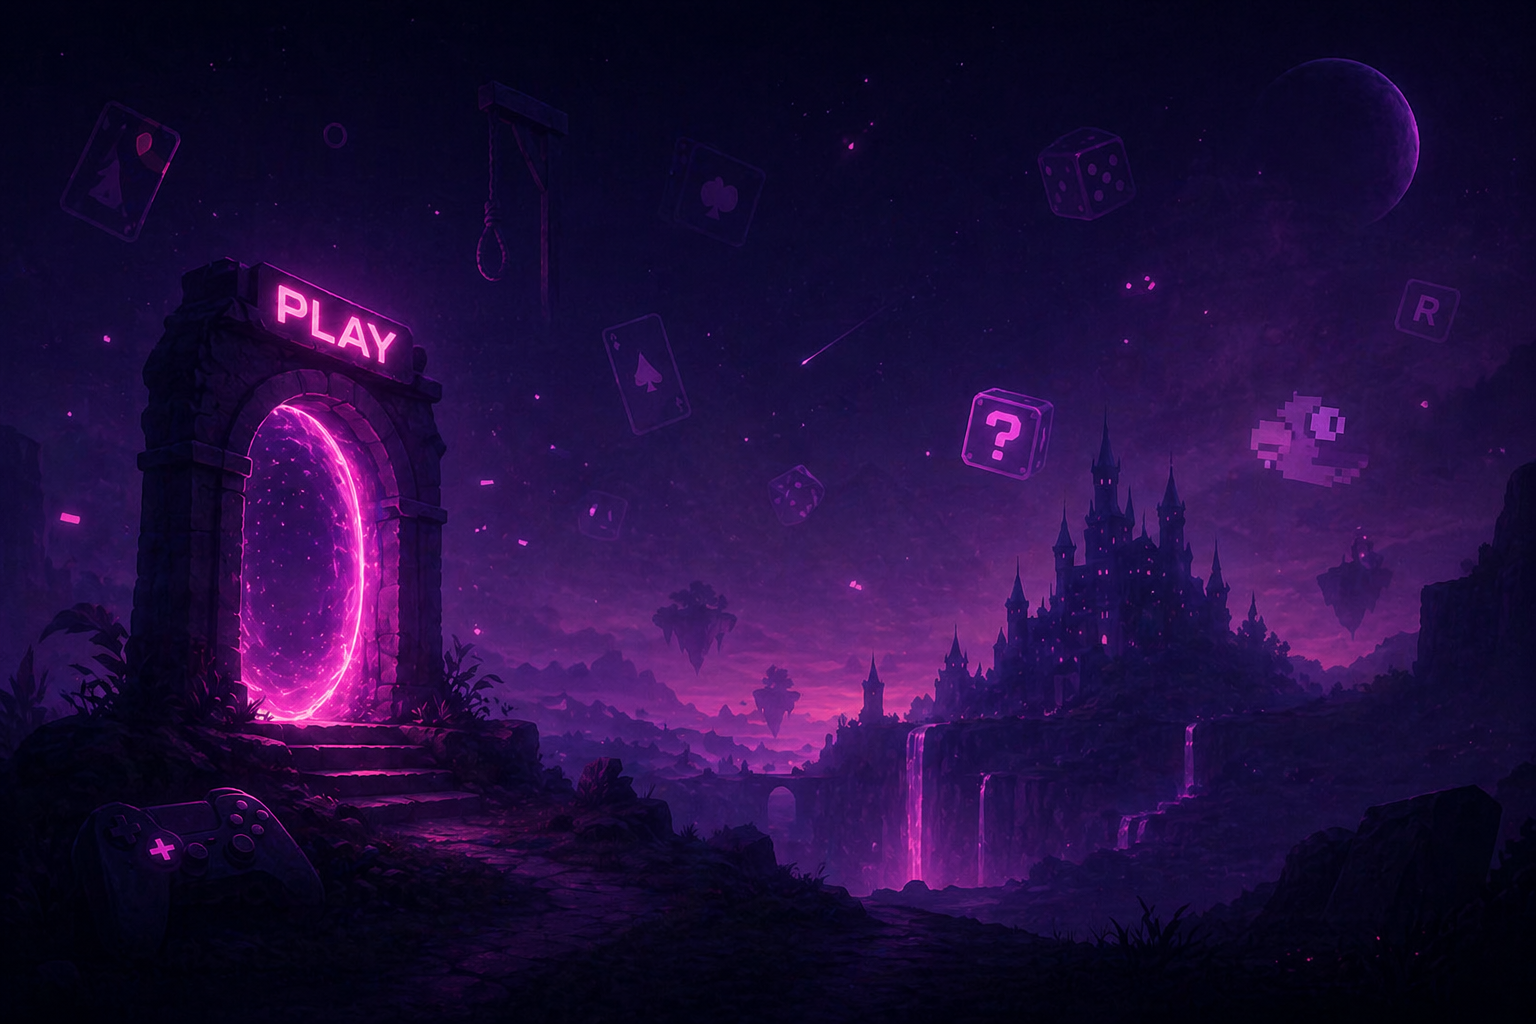
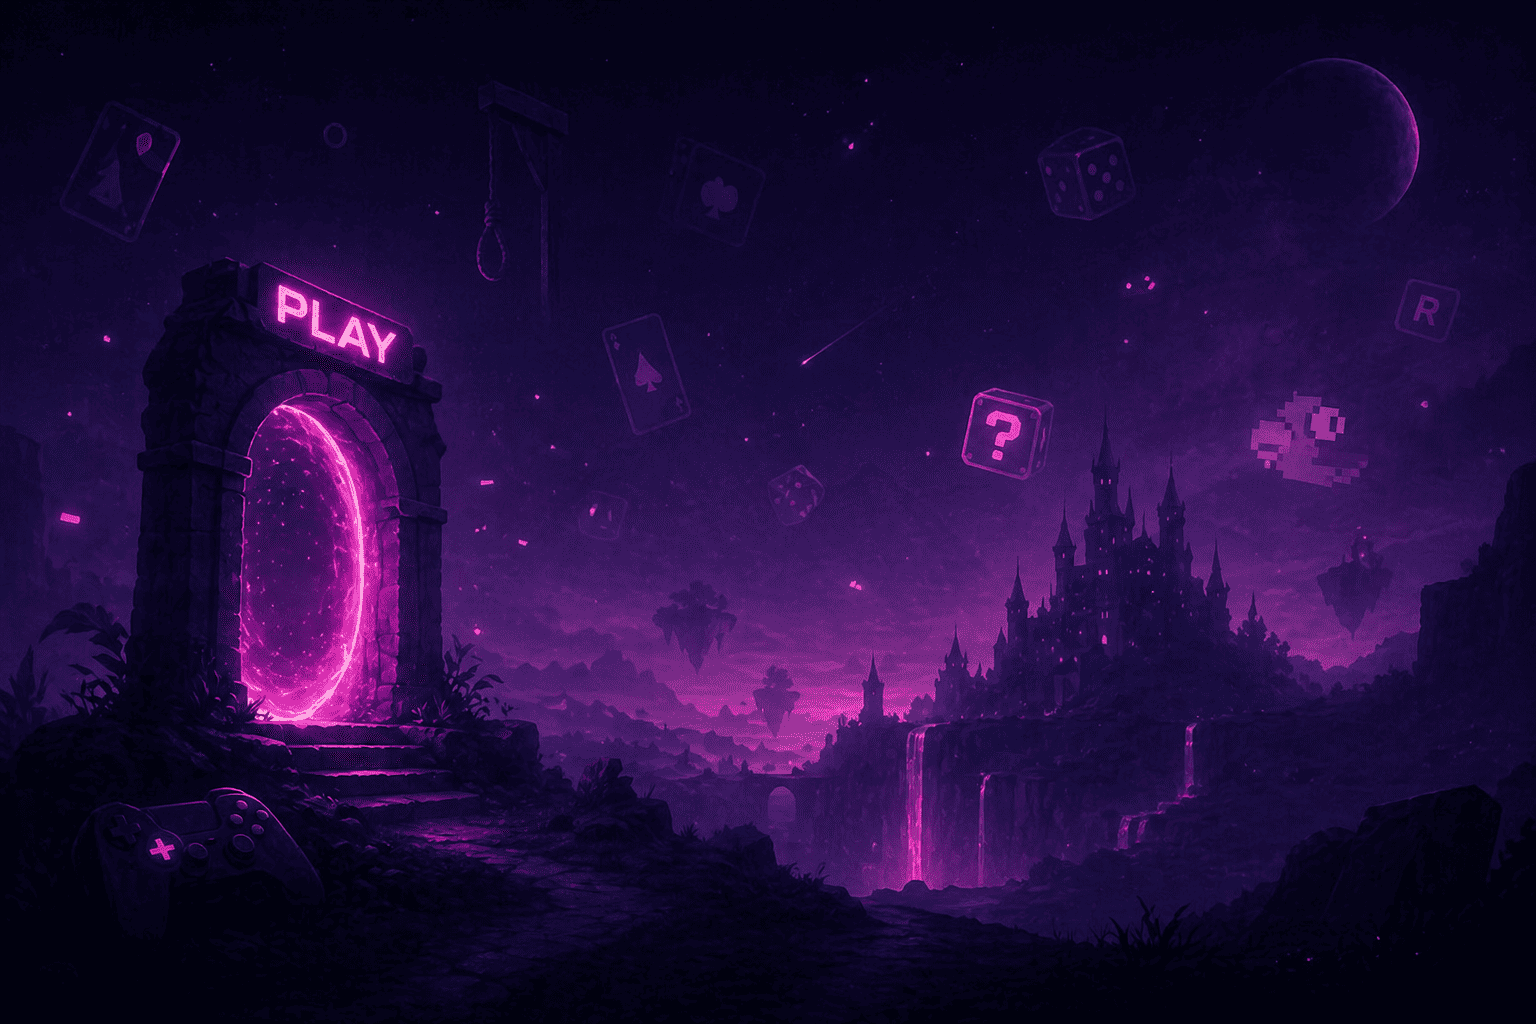
update trivia

diff --git a/src/app/services/trivia.service.ts b/src/app/services/trivia.service.ts
@@ -8,8 +8,7 @@ import { ISimpsonsCharacter, Question, QuestionType } from './service.interface'
 export class TriviaService {
 
     simpsonsS= inject(Simpsons);
-    currentQuestion =
-    signal<Question | null>(null);
+    currentQuestion = signal<Question | null>(null);
 
     types: QuestionType[] = [
     'quoteToCharacter',
@@ -56,36 +55,73 @@ export class TriviaService {
     this.currentQuestion.set(question);
     }
 
-    getRandomCharacter(): ISimpsonsCharacter {
+    // getRandomCharacter(hasPhrase?: boolean): ISimpsonsCharacter {
 
+    //     const characters = this.simpsonsS.characters();
+
+    //     return characters[
+    //         Math.floor(Math.random() * characters.length)
+    //     ];
+    // }
+
+    // getRandomCharacter(hasPhrase?: boolean): ISimpsonsCharacter {
+    //     const characters = this.simpsonsS.characters();
+
+    //     const filtered = characters.filter(character => {
+    //         if (hasPhrase === undefined) return true;
+
+    //         if (hasPhrase) {
+    //         return character.phrases?.length > 0;
+    //         } else {
+    //         return !character.phrases || character.phrases.length === 0;
+    //         }
+    //     });
+
+    //     return filtered[
+    //         Math.floor(Math.random() * filtered.length)
+    //     ];
+    // }
+
+    getRandomCharacter(hasPhrase?: boolean): ISimpsonsCharacter {
         const characters = this.simpsonsS.characters();
 
-        return characters[
-            Math.floor(Math.random() * characters.length)
+        const filtered = characters.filter(character => {
+            if (!hasPhrase) return true;
+
+            return (character.phrases?.length ?? 0) > 0;
+        });
+
+        return filtered[
+            Math.floor(Math.random() * filtered.length)
         ];
     }
 
-    getRandomCharacterNames(  cant: number, excludeName?: string): string[] {
-        
+    getRandomCharacterNames(cant: number, excludeName?: string, hasPhrase?: boolean): string[] {
+
         const characters = this.simpsonsS.characters();
+
+        const filtered = characters.filter(character => {
+            if (hasPhrase === undefined) return true;
+
+            return hasPhrase
+            ? (character.phrases?.length ?? 0) > 0
+            : true;
+        });
+
         const names: string[] = [];
 
-        while(names.length < cant) {
+        while (names.length < cant && filtered.length > 0) {
 
             const randomCharacter =
-            characters[Math.floor(Math.random() * characters.length)];
+            filtered[Math.floor(Math.random() * filtered.length)];
 
-            const randomName =
-            randomCharacter.name;
+            const randomName = randomCharacter.name;
 
-            const alreadyExists =
-            names.includes(randomName);
+            const alreadyExists = names.includes(randomName);
+            const isExcluded = randomName === excludeName;
 
-            const isExcluded =
-            randomName === excludeName;
-
-            if(!alreadyExists && !isExcluded) {
-                names.push(randomName);
+            if (!alreadyExists && !isExcluded) {
+            names.push(randomName);
             }
         }
 
@@ -122,10 +158,9 @@ export class TriviaService {
 
     generateQuoteToCharacterQuestion(): Question {
 
-        const correctCharacter = this.getRandomCharacter();
+        const correctCharacter = this.getRandomCharacter(true);
 
-        const wrongOptions =
-            this.getRandomCharacterNames(3, correctCharacter.name);
+        const wrongOptions = this.getRandomCharacterNames(3, correctCharacter.name, true);
 
         const options = [
             correctCharacter.name,
@@ -136,29 +171,13 @@ export class TriviaService {
 
             type: 'quoteToCharacter',
 
-            prompt: `Quién dijo esta frase:"${this.getRandomItem(correctCharacter.phrases)}"?`,
+            prompt: `Quién dijo esta frase:"${this.shuffle(correctCharacter.phrases)[0]}"` ,
 
             options: this.shuffle(options),
 
             correctAnswer:
             correctCharacter.name
         };
-    }
-
-    getRandomItem(array: string[]): string {
-
-        const validItems =
-            array.filter(item =>
-            item &&
-            item.trim() !== ''
-            );
-
-        return validItems[
-            Math.floor(
-            Math.random() * validItems.length
-            )
-        ];
-
     }
 
     getRandomPhrases(cant: number, excludeName?: string) {
@@ -170,11 +189,11 @@ export class TriviaService {
 
             const randomCharacter = characters[Math.floor(Math.random() * characters.length)];
 
-            const randomPhrase = this.getRandomItem(randomCharacter.phrases);
+            const randomPhrase =  this.shuffle(randomCharacter.phrases)[0];
 
             const isExcluded = randomCharacter.name === excludeName;
 
-            if(!isExcluded) {
+            if(!isExcluded && randomPhrase) {
                 phrases.push(randomPhrase);
             }
         }
@@ -186,9 +205,9 @@ export class TriviaService {
 
     generateCharacterToQuoteQuestion(): Question {
 
-        const correctCharacter = this.getRandomCharacter();
+        const correctCharacter = this.getRandomCharacter(true);
 
-        const correctOption = this.getRandomItem(correctCharacter.phrases);
+        const correctOption = this.shuffle(correctCharacter.phrases)[0];
 
         const wrongOptions = this.getRandomPhrases(3, correctCharacter.name);
 
@@ -213,7 +232,7 @@ export class TriviaService {
 
         const correctCharacter = this.getRandomCharacter();
 
-        const wrongOptions = this.getRandomCharacterNames(3);
+        const wrongOptions = this.getRandomCharacterNames(3, correctCharacter.name);
 
         const options = [
             correctCharacter.name,

diff --git a/src/app/games/trivia/trivia.css b/src/app/games/trivia/trivia.css
@@ -1,5 +1,17 @@
-.page{
-    padding-top: 60px;
+.page {
+    /* padding-top: 60px; */
+    height: 100vh;
+    overflow: hidden;
+    width: 100%;
+
+    background-image: url("/assets/games/trivia/fondo-trivia.png");
+    background-size: cover;
+    background-position: center;
+    background-repeat: no-repeat;
+
+    display: flex;
+    align-items: center;
+    justify-content: center;
 }
 
 .score-bar {
@@ -13,11 +25,16 @@
 
     border-radius: 999px;
 
-    background: #36052d;
-    border: 1px solid rgba(255, 0, 170, 0.637);
+    background: rgba(16, 14, 28, 0.6);
+    backdrop-filter: blur(10px);
+    border: 1px solid rgba(255, 255, 255, 0.1);
     color: #fff;
 
     font-weight: bold;
+}
+
+h2 {
+    color: #fff;
 }
 
 .quiz-container {
@@ -32,9 +49,11 @@
     width: 100%;
     max-width: 600px;
 
-    background: #36052d;
-    border: 1px solid rgba(255, 0, 170, 0.637);
+    background: rgba(16, 14, 28, 0.6);
+    backdrop-filter: blur(10px);
+
     border-radius: 16px;
+    border: 1px solid rgba(255, 255, 255, 0.1);
     padding: 1rem;
 
     display: flex;
@@ -69,15 +88,15 @@
     padding: 1rem;
     border: none;
     border-radius: 10px;
-    background-color: #f330cf91;
-    color: #fff;
+    background-color: #dd0faa;
+    color: #020105;
     font-size: 1rem;
     cursor: pointer;
     transition: 0.2s;
 }
 
 .option-button:hover {
-    background-color: #ffffff;
-    color: #000000;
+    background-color: #dd0faa42;
+    color: #fff;
     transform: scale(1.01);
 }

diff --git a/src/app/pages/sobre-mi/sobre-mi.html b/src/app/pages/sobre-mi/sobre-mi.html
@@ -40,7 +40,7 @@
             <img src="/assets/games/covers/the-hangman.webp" alt="The Hangman" routerLink="/games/hangman">
         </div>
         <div class="card-preview">
-            <img src="/assets/games/covers/trivia.webp" alt="Trivia" routerLink="/games/trivia">
+            <img src="/assets/games/covers/trivia.png" alt="Trivia" routerLink="/games/trivia">
         </div>
         <div class="card-preview">
             <img src="/assets/games/covers/higher-lower.webp" alt="Higher Lower" routerLink="/games/higher-lower">

diff --git a/src/app/pages/home/home.html b/src/app/pages/home/home.html
@@ -56,7 +56,7 @@
             <div class="swiper-slide">
                 <div class="game-card">
                     <div class="cover" routerLink="/games/trivia">
-                    <img src="/assets/games/covers/trivia.webp" alt="Trivia">
+                    <img src="/assets/games/covers/trivia.png" alt="Trivia">
                     
                     <div class="overlay-home">
                         <h3>Instrucciones</h3>
